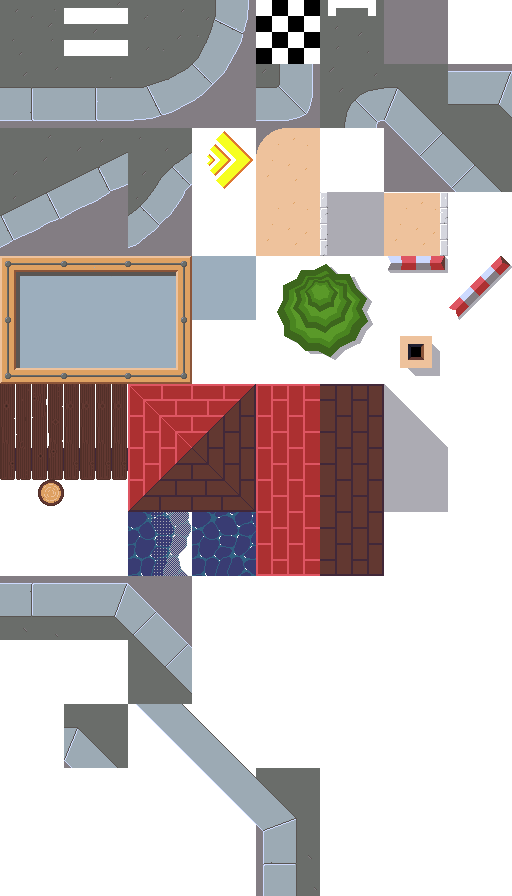
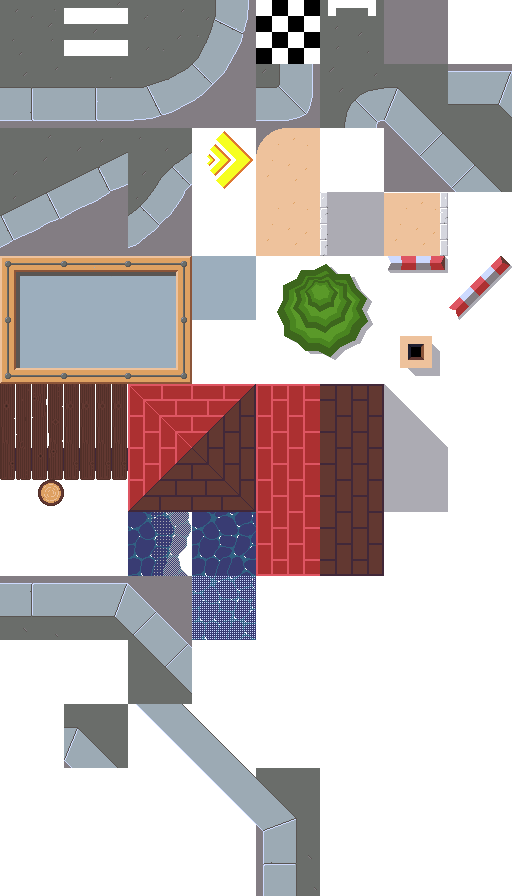
Add notion of ground material

Changed region(s): [[0.375, 0.625, 0.5, 0.7188]]

diff --git a/core/src/com/agateau/tinywheels/Wheel.java b/core/src/com/agateau/tinywheels/Wheel.java
@@ -44,6 +44,7 @@ public class Wheel implements Pool.Poolable, Disposable {
     private float mMaxDrivingForce;
     private boolean mGripEnabled = true;
     private float mGroundSpeed;
+    private MapInfo.Material mMaterial;
     private boolean mDrifting = false;
 
     public static Wheel create(TextureRegion region, GameWorld gameWorld, float posX, float posY) {
@@ -86,7 +87,7 @@ public class Wheel implements Pool.Poolable, Disposable {
     }
 
     public void act(float delta) {
-        updateGroundSpeed();
+        updateGroundInfo();
         if (mGripEnabled) {
             updateFriction();
         }
@@ -155,8 +156,9 @@ public class Wheel implements Pool.Poolable, Disposable {
         mBody.applyAngularImpulse(0.1f * mBody.getInertia() * -mBody.getAngularVelocity(), true);
     }
 
-    private void updateGroundSpeed() {
+    private void updateGroundInfo() {
         mGroundSpeed = mGameWorld.getMapInfo().getMaxSpeedAt(mBody.getWorldCenter());
+        mMaterial = mGameWorld.getMapInfo().getMaterialAt(mBody.getWorldCenter());
     }
 
     public void setCanDrift(boolean canDrift) {
@@ -173,5 +175,9 @@ public class Wheel implements Pool.Poolable, Disposable {
 
     public CircularArray<Vector2> getSkidmarks() {
         return mSkidmarks;
+    }
+
+    public MapInfo.Material getMaterial() {
+        return mMaterial;
     }
 }

diff --git a/core/src/com/agateau/tinywheels/VehicleRenderer.java b/core/src/com/agateau/tinywheels/VehicleRenderer.java
@@ -1,5 +1,6 @@
 package com.agateau.tinywheels;
 
+import com.badlogic.gdx.Gdx;
 import com.badlogic.gdx.graphics.g2d.Batch;
 import com.badlogic.gdx.graphics.g2d.TextureRegion;
 import com.badlogic.gdx.math.MathUtils;
@@ -15,6 +16,7 @@ public class VehicleRenderer implements Renderer {
     private final Vehicle mVehicle;
     private final Array<Renderer> mRenderers = new Array<Renderer>();
     private final SkidmarksRenderer mSkidmarksRenderer;
+    private float mTime = 0;
 
     public VehicleRenderer(Assets assets, Vehicle vehicle) {
         mAssets = assets;
@@ -30,10 +32,15 @@ public class VehicleRenderer implements Renderer {
         mRenderers.removeValue(renderer, true);
     }
 
+    @Override
     public void draw(Batch batch, int zIndex) {
+        mTime += Gdx.app.getGraphics().getDeltaTime();
         if (zIndex == Constants.Z_GROUND) {
             for(Vehicle.WheelInfo info: mVehicle.getWheelInfos()) {
                 mSkidmarksRenderer.draw(batch, info.wheel.getSkidmarks());
+                if (info.wheel.getMaterial() == MapInfo.Material.WATER) {
+                    DrawUtils.drawBodyRegion(batch, info.wheel.getBody(), mAssets.splash.getKeyFrame(mTime, true));
+                }
             }
             DrawUtils.drawBodyRegionShadow(batch, mVehicle.getBody(), mVehicle.getRegion());
             return;

diff --git a/core/src/com/agateau/tinywheels/MapInfo.java b/core/src/com/agateau/tinywheels/MapInfo.java
@@ -21,6 +21,12 @@ import com.badlogic.gdx.utils.Disposable;
  * The map of the current game
  */
 public class MapInfo implements Disposable {
+    enum Material {
+        ROAD,
+        SAND,
+        SNOW,
+        WATER,
+    }
     private static final int CELL_ID_ROW_STRIDE = 10000;
 
     private static class WaypointInfo implements Comparable {
@@ -211,6 +217,23 @@ public class MapInfo implements Disposable {
         int tx = MathUtils.floor(x / mTileWidth);
         int ty = MathUtils.floor(y / mTileHeight);
         return ty * CELL_ID_ROW_STRIDE + tx;
+    }
+
+    public Material getMaterialAt(Vector2 pos) {
+        return getMaterialAt(pos.x, pos.y);
+    }
+
+    public Material getMaterialAt(float x, float y) {
+        float speed = getMaxSpeedAt(x, y);
+        if (speed < 0.35) {
+            return Material.WATER;
+        } else if (speed < 0.55) {
+            return Material.SNOW;
+        } else if (speed < 0.65) {
+            return Material.SAND;
+        } else {
+            return Material.ROAD;
+        }
     }
 
     public float getMaxSpeedAt(Vector2 pos) {

diff --git a/core/src/com/agateau/tinywheels/Assets.java b/core/src/com/agateau/tinywheels/Assets.java
@@ -41,6 +41,7 @@ public class Assets {
     public final Animation mine;
     public final Animation turbo;
     public final Animation turboFlame;
+    public final Animation splash;
     public final TextureRegion gift;
     public final Animation gunAnimation;
     public final TextureRegion bullet;
@@ -77,6 +78,7 @@ public class Assets {
         this.turbo = new Animation(TURBO_FRAME_DURATION, this.findRegions("bonus-turbo"));
         this.turboFlame = new Animation(TURBO_FLAME_FRAME_DURATION, this.findRegions("turbo-flame"));
         this.turboFlame.setPlayMode(Animation.PlayMode.LOOP_PINGPONG);
+        this.splash = new Animation(TURBO_FLAME_FRAME_DURATION, this.findRegions("vehicles/splash"));
         this.gift = findRegion("gift");
         this.gunAnimation = new Animation(0.1f / 3, this.findRegions("bonus-gun"));
         this.bullet = findRegion("bullet");
